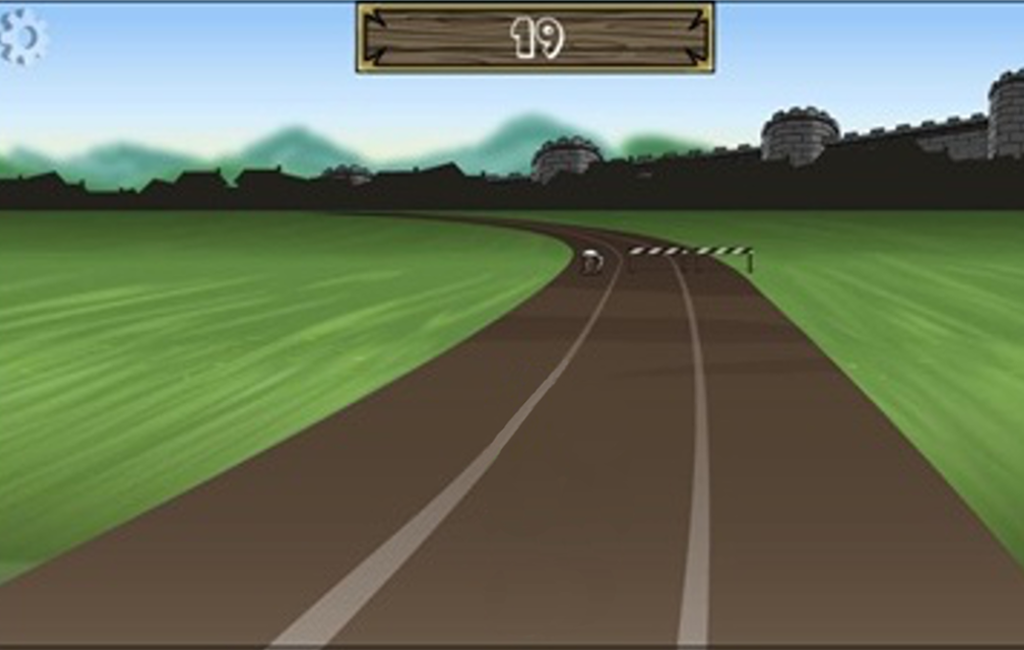
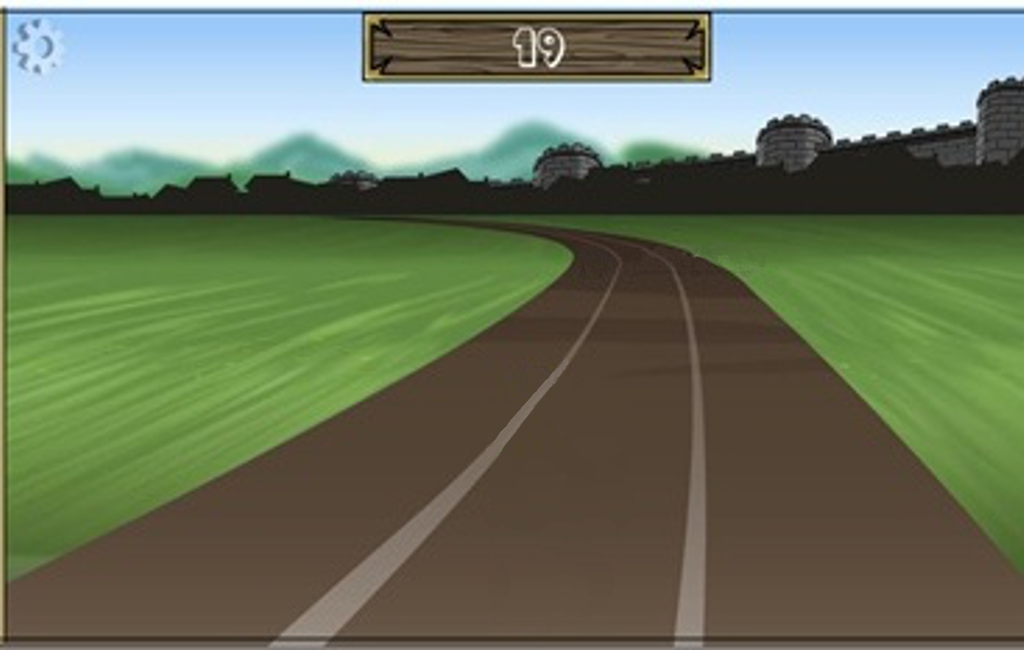
tree can move complete

diff --git a/src/RunningDiedGame/RunningDied.java b/src/RunningDiedGame/RunningDied.java
@@ -10,9 +10,11 @@ import org.newdawn.slick.Input;
 import org.newdawn.slick.SlickException;
 
 public class RunningDied extends BasicGame {
-
-	BoyDied boy ;
-	Image image ;
+	
+	private Image image ;
+	private BoyDied boy ;
+	private Tree[] trees = new Tree[5] ; 
+	private int delayTime = 0 ;
 	
 	public RunningDied(String title){
 		super(title);
@@ -22,17 +24,32 @@ public class RunningDied extends BasicGame {
 	public void render(GameContainer arg0, Graphics arg1) throws SlickException {
 		image.draw(0,-5);
 		boy.render();
+		for (Tree tree : trees){
+			tree.render();
+		}
+			
 	}
 
 	@Override
 	public void init(GameContainer arg) throws SlickException {
 		image = new Image("res/background.png");
 		boy = new BoyDied(440,440);
+		initTree();
+	}
+	
+	private void initTree() throws SlickException {
+		trees[0] = new Tree(440,60);
+		trees[1] = new Tree(366,110);
+		trees[2] = new Tree(246,164);
+		trees[3] = new Tree(104,222);
+		trees[4] = new Tree(-24,286);
 	}
 
 	@Override
 	public void update(GameContainer arg0, int arg1) throws SlickException {
-		
+		for (Tree tree : trees){
+			tree.update();
+		}
 	}
 	
 	@Override

diff --git a/src/RunningDiedGame/Tree.java b/src/RunningDiedGame/Tree.java
@@ -19,5 +19,12 @@ public class Tree {
 		image.draw(x,y);
 	}
 	
-
+	public void update (){
+		this.x -= Math.cos(Math.toRadians(25));
+		this.y += Math.sin(Math.toRadians(25));
+		if ( x <= -100){
+			x = 440 ;
+			y = 56 ; 
+		}
+	}
 }
